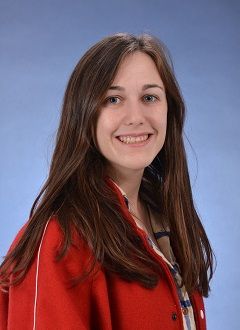
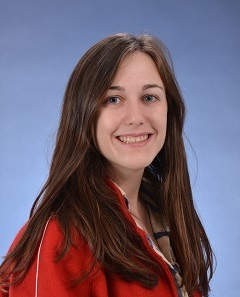
prelaunch update

diff --git a/resources.html b/resources.html
@@ -139,6 +139,9 @@
                         </p>
                         <br>    
 
+                       <h4>Academic Misconduct</h4>    
+                        <p><b><a href="http://www.calendar.ubc.ca/vancouver/index.cfm?tree=3,54,111,959">http://www.calendar.ubc.ca/vancouver/index.cfm?tree=3,54,111,959</a></b><p>
+                        <p>Students are responsible for informing themselves of the guidelines of acceptable and non-acceptable conduct for graded assignments established by their instructors for specific courses and of the examples of academic misconduct set out below. Academic misconduct that is subject to disciplinary measures includes, but is not limited to, engaging in, attempting to engage in, or assisting others to engage, in any of the actions described in the document.</p>   
 
                     </div> <!-- Section end -->
 
@@ -149,24 +152,49 @@
                         <hr>
 
                         <h4>What do I learn in CHBE?</h4>
-                        <p>Make sure to keep all page content within the <code>#page-content-wrapper</code>.</p>
+                        <p>In CHBE you will learn to create and develop processes to change raw materials into the products that society depends on: food, chemicals, fuels, energy, metals, pharmaceuticals, paper, plastics, and personal care products.</p>
+                        <p>Chemical and process engineers help to manage natural resources, protect the environment, control health and safety procedures, and recycle materials, while developing and managing the processes which make the products we use.
+                        </p>
+                        <p>
+                        <code>Source: <a href="http://www.chbe.ubc.ca/about-us/why-chemical-engineering/">CHBE Department Website</a></code></p>
                         <br>
 
-                        <h4>Is a <code>[Insert Number]</code>% GPA enough to enter CHBE?</h4>
-                        <p>Make sure to keep all page content within the <code>#page-content-wrapper</code>.</p>
+                        <h4>Is a <code>75</code>% GPA enough to enter CHBE?</h4>
+                        <p>Currently an average of 75% is enough to enter CHBE. However the entrance GPA to CHBE fluctuates year to year depending on the interest in the department. For the latest information contact the CHBE Advisors.</p>
                         <br>
 
                         <h4>Where can I find the courses that I need for transferring?</h4>
-                        <p>Make sure to keep all page content within the <code>#page-content-wrapper</code>.</p>
+                        <p>Student should talk to the following Advisors based on their year:</p>
+                        <p>
+                            <ul>
+                                <li>Dr. Ezra Kwok (year 2) </li>
+                                <li>Dr. Kevin Smith (Chem Eng years 3 and 4) </li>
+                                <li>Louise Creagh (ChemBio Eng years 3 and 4)</li>
+                            </ul>
+                        </p>
+                        <p>
+                            Advisors are the first point of contact for students for any of a wide range of issues, including recommending course substitutions or equivalent credits to the Department. If issues are not resolved, students are referred by their advisor to either the Associate Head for Undergraduates, Dr. Gopaluni, or the Department Head, Dr. Englezos.
+                        </p>
                         <br>
 
-                        <h4>Who do I ask for academic help?</h4>
-                        <p>Make sure to keep all page content within the <code>#page-content-wrapper</code>.</p>
+                        <h4>How can I specialize my degree beyond the typical standard timetable?</h4>
+                        <p>Specialization is accomplished through technical electives offered in third and fourth year. The list of approved technical electives is intentionally broad to provide students with the flexibility to explore their interests. This includes courses focused on industry, such as specific industrial applications of a chemical engineering degree and the typical software utilized by industry, the environment, and more theory-based supplements to the curriculum.</p>
+                        <p>Students take six credits technical electives and can elect to take a maximum of three of these credits outside the department.</p>
+                        <p>The course listing can be found at <a href="http://www.chbe.ubc.ca/academics/undergraduate/course-listing/technical-electives/">Technical Electives and Complementary Courses</a>.</p>
                         <br>                        
 
-                        <h4>Who do I contact to discuss transfer credits issues</h4>
-                        <p>Make sure to keep all page content within the <code>#page-content-wrapper</code>.</p>
-                        <br>       
+                        <h4>Can I pursue a minor while working on a CHBE degree?</h4>
+                        <p>Yes! CHBE students can pursue minors offered by the Faculty of Applied Science. This includes:</p>
+                        <p>
+                            <ul>
+                                <li>Minor in Commerce</li>
+                                <li>Minor in Arts (18 or 30 credits)</li>
+                                <li>Minor in Honours Mathematics</li>
+                                <li>Minor in Science <b>*New!*</b></li>
+                            </ul>
+                        </p>
+
+                        <br>
 
                     </div> <!-- Section end -->                    
 

diff --git a/merchandise.html b/merchandise.html
@@ -77,69 +77,63 @@
 <!-- panel start -->
       <article class="white-panel"><img src="images/merch/stripper.jpg" alt="">
         <h4>Stripping Ain't Easy</h4>
-        <p>Lorem ipsum dolor sit amet, consectetur adipisicing elit, sed do eiusmod tempor incididunt ut labore et dolore magna aliqua. Ut enim ad minim veniam, quis nostrud exercitation ullamco laboris nisi ut aliquip ex ea commodo consequat. Duis aute</p>
+        <p></p>
         <h3 class="price"><b>$12.00</b></h3>
       </article>
       <!-- end panel -->
 <!-- panel start -->
       <article class="white-panel"> <img src="images/merch/stickerfixed.jpg" alt="">
         <h4>CHBE sticker!</h4>
-        <p>Lorem ipsum dolor sit amet, consectetur adipisicing elit, sed do eiusmod tempor incididunt ut labore et dolore magna aliqua. Ut enim ad minim veniam, quis nostrud exercitation ullamco laboris nisi ut aliquip ex ea commodo consequat. Duis aute
-          irure dolor in reprehenderit in voluptate velit esse cillum dolore eu fugiat nulla pariatur.</p>
+        <p></p>
         <h3 class="price"><b>$2.00</b></h3>
       </article>  
 <!-- panel end-->
 <!-- panel start -->
       <article class="white-panel"> <img src="images/merch/marcarita.jpg" alt="">
         <h4>Marc-Margarita Shirts</h4>
-        <p>Excepteur sint occaecat cupidatat non proident, sunt in culpa qui officia deserunt mollit anim id est laborum.</p>
+        <p></p>
         <h3 class="price"><b>$12.00</b></h3>
       </article>
 <!-- panel end-->
 <!-- panel start -->
       <article class="white-panel"> <img src="images/merch/matt.jpg" alt="">
         <h4>Matt's White Shirt</h4>
-        <p>Lorem ipsum dolor sit amet, consectetur adipisicing elit, sed do eiusmod tempor incididunt ut labore et dolore magna aliqua. Ut enim ad minim veniam, quis nostrud exercitation ullamco laboris nisi ut aliquip ex ea commodo consequat. Duis aute
-          irure dolor in reprehenderit in voluptate velit esse cillum dolore eu fugiat nulla pariatur. Excepteur sint occaecat cupidatat non proident, sunt in culpa qui officia deserunt mollit anim id est laborum.</p>
+        <p></p>
           <h3 class="price"><b>$12.00</b></h3>
       </article>
 <!-- panel end-->
 <!-- panel start -->
       <article class="white-panel"> <img src="images/merch/margarita.jpg" alt="">
         <h4>Margarita's White Shirt</h4>
-        <p>Lorem ipsum dolor sit amet, consectetur adipisicing elit, sed do eiusmod tempor incididunt ut labore et dolore magna aliqua. Ut enim ad minim veniam, quis nostrud exercitation ullamco laboris nisi ut aliquip ex ea commodo consequat. Duis aute
-          irure dolor in reprehenderit in voluptate velit esse cillum dolore eu fugiat nulla pariatur.</p>
+        <p></p>
         <h3 class="price"><b>$12.00</b></h3>
       </article>      
 <!-- panel end-->
 <!-- panel start -->
       <article class="white-panel"> <img src="images/merch/marc.jpg" alt="">
         <h4>Marc Again</h4>
-        <p>Duis aute irure dolor in reprehenderit in voluptate velit esse cillum dolore eu fugiat nulla pariatur. Excepteur sint occaecat cupidatat non proident, sunt in culpa qui officia deserunt mollit anim id est laborum.</p>
+        <p></p>
         <h3 class="price"><b>$12.00</b></h3>
       </article>
 <!-- panel end-->
 <!-- panel start -->
       <article class="white-panel"> <img src="images/merch/anyssa.jpg" alt="">
         <h4>Anyssa Hoodie</h4>
-        <p>Lorem ipsum dolor sit amet, consectetur adipisicing elit, sed do eiusmod tempor incididunt ut labore et dolore magna aliqua. Ut enim ad minim veniam, quis nostrud exercitation ullamco laboris nisi ut aliquip ex ea commodo consequat. Duis aute
-          irure dolor in reprehenderit in voluptate velit esse cillum dolore eu fugiat nulla pariatur.</p>
+        <p></p>
         <h3 class="price"><b>$35.00</b></h3>
       </article>
 <!-- panel end-->
 <!-- panel start -->
       <article class="white-panel"><img src="images/merch/christine.jpg" alt="">      
         <h4>Christine's Black Shirt</h4>
-        <p>Lorem ipsum dolor sit amet, consectetur adipisicing elit, sed do eiusmod tempor incididunt ut labore et dolore magna aliqua. Ut enim ad minim veniam, quis nostrud exercitation ullamco laboris nisi ut aliquip ex ea commodo consequat. Duis aute
-          irure dolor in reprehenderit in voluptate velit esse cillum dolore eu fugiat nulla pariatur. Excepteur sint occaecat cupidatat non proident, sunt in culpa qui officia deserunt mollit anim id est laborum.</p>
+        <p></p>
         <h3 class="price"><b>$12.00</b></h3>
       </article>
 <!-- panel end-->
 <!-- panel start -->
       <article class="white-panel"> <img src="images/merch/mattine.jpg" alt="">
         <h4>Matt-Christine Shirts</h4>
-        <p>Lorem ipsum dolor sit amet, consectetur adipisicing elit, sed do eiusmod tempor incididunt ut labore et dolore magna aliqua. Ut enim ad minim veniam, quis nostrud exercitation ullamco laboris nisi ut aliquip ex ea commodo consequat. Duis aute
-          irure dolor in reprehenderit in voluptate velit esse cillum dolore eu fugiat nulla pariatur. Excepteur sint occaecat cupidatat non proident, sunt in culpa qui officia deserunt mollit anim id est laborum.</p>
+        <p></p>
         <h3 class="price"><b>$12.00</b></h3>
       </article>
     </section>

diff --git a/team.html b/team.html
@@ -152,7 +152,7 @@
                         <div class="team-items">
                             <div class="item text-left">
                                 <div class="single-member">
-                                    <img src="images/team/pic6.jpg" alt="" class="img-responsive">  
+                                    <img src="images/2015/hidayah.jpg" alt="" class="img-responsive">  
                                     <h3>Nurul Hidayah Amir</h3>
                                     <h5>Co-Secretary</h5>
                                 </div>
@@ -374,7 +374,7 @@
                         <div class="team-items">
                             <div class="item text-left">
                                 <div class="single-member">
-                                    <img src="images/team/pic6.jpg" alt="" class="img-responsive">  
+                                    <img src="images/2015/farbod.jpg" alt="" class="img-responsive">  
                                     <h3>Farbod Rahiminejad</h3>
                                     <h5>Academic Co-Rep</h5>
                                 </div>
@@ -523,7 +523,7 @@
                         <div class="team-items">
                             <div class="item text-left">
                                 <div class="single-member">
-                                    <img src="images/team/pic6.jpg" alt="" class="img-responsive">  
+                                    <img src="images/2015/haren.jpg" alt="" class="img-responsive">  
                                     <h3>Haren Teckchandani</h3>
                                     <h5>Facility Officer</h5>
                                 </div>

diff --git a/css/custom.css b/css/custom.css
@@ -2781,3 +2781,7 @@ iframe{
     margin-bottom: 50px;
     margin-top: 50px;
 }
+
+.single-member img{
+    max-height: 230px;
+}
